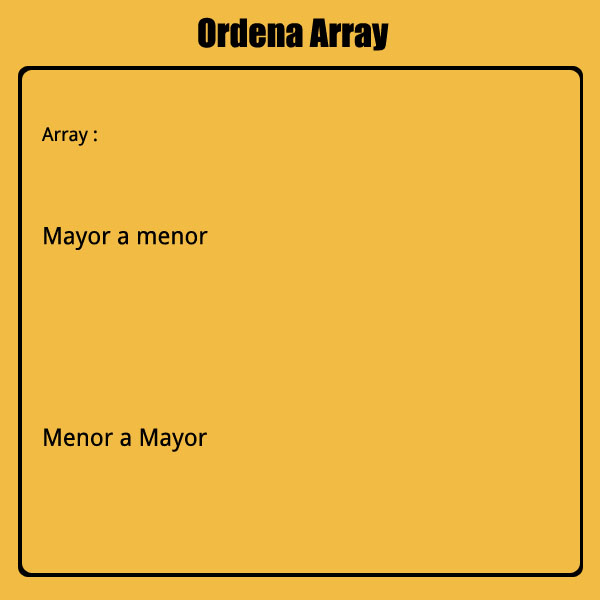
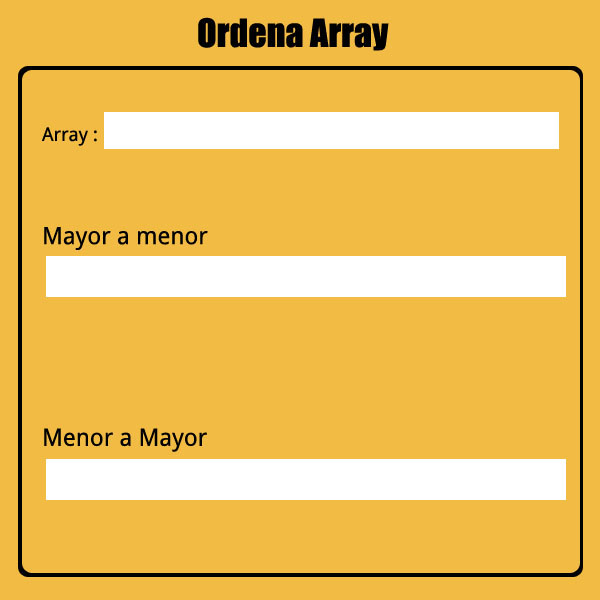
imcompleto

Changed region(s): [[0.06, 0.75, 0.96, 0.84], [0.06, 0.42, 0.96, 0.51], [0.15, 0.18, 0.93, 0.27]]

diff --git a/src/recursion/PopUp.java b/src/recursion/PopUp.java
@@ -4,19 +4,34 @@ import java.awt.Graphics;
 import java.awt.Image;
 import java.awt.MediaTracker;
 import java.awt.Toolkit;
+
+import javax.swing.JOptionPane;
 import javax.swing.JPanel;
 import javax.swing.JButton;
-
-class PopUp extends JPanel{
-JButton boton1 = new JButton("Aceptar");
-	Image bgimage = null;
+import javax.swing.JFrame;
+public class PopUp extends JFrame {
+	
 	PopUp(){
+		setSize(404,171);
+		setUndecorated(true);
+		add(new Entrada());
+		setLocationRelativeTo(null);
+
+		setVisible(true);
+		
+		
+	}
+}
+
+class Entrada extends JPanel{
+	
+JButton boton1 = new JButton("Aceptar");
+	Image popup = null;
+	Entrada(){
 	setLayout(null);
-	bgimage = Toolkit.getDefaultToolkit().getImage("/home/kala/git/Varios/Images/frame.jpg");
-	boton1.setBounds(30, 160, 160, 30);
-add(boton1);
+	popup = Toolkit.getDefaultToolkit().getImage("/home/kala/git/Varios/Images/popup.jpg");
 	MediaTracker mt = new MediaTracker(this);
-	mt.addImage(bgimage, 0);
+	mt.addImage(popup, 0);
 	
 	try{
 		mt.waitForAll();
@@ -30,7 +45,7 @@ add(boton1);
 	protected void paintComponent(Graphics g){
 
 		super.paintComponent(g);
-		g.drawImage(bgimage,1,1,null);		
+		g.drawImage(popup,1,1,null);		
 		
 	}
 	

diff --git a/src/recursion/ContentPanel.java b/src/recursion/ContentPanel.java
@@ -6,22 +6,25 @@ import java.awt.MediaTracker;
 import java.awt.Toolkit;
 import java.awt.event.ActionEvent;
 import java.awt.event.ActionListener;
-
 import javax.swing.ImageIcon;
 import javax.swing.JPanel;
 import javax.swing.JButton;
 
 class ContentPanel extends JPanel implements ActionListener {
-	JButton boton1 = new JButton("Ingresar numeros");
+	JButton boton1 = new JButton();
+	JButton boton2 = new JButton();
 	Image bgimage = null;
 	ImageIcon buimage1 = new ImageIcon(
 			"/home/kala/git/Varios/Images/boton1.png");
-
+	ImageIcon buimage2 = new ImageIcon(
+			"/home/kala/git/Varios/Images/boton2.png");
+//constructor
 	ContentPanel() {
 		setLayout(null);
 		bgimage = Toolkit.getDefaultToolkit().getImage(
 				"/home/kala/git/Varios/Images/frame.jpg");
 		botones(boton1, buimage1, 450, 535, 120, 30);
+		botones(boton2, buimage2, 40, 170, 120, 30);
 
 		MediaTracker mt = new MediaTracker(this);
 		mt.addImage(bgimage, 0);
@@ -40,7 +43,12 @@ class ContentPanel extends JPanel implements ActionListener {
 	public void actionPerformed(ActionEvent e) {
 
 		if (e.getSource() == boton1) {
+			
 			System.exit(0);
+		}
+		
+		if(e.getSource() == boton2){
+			new PopUp();
 		}
 
 	}

diff --git a/src/recursion/Proceso.java b/src/recursion/Proceso.java
@@ -1,0 +1,36 @@
+package recursion;
+//La siguiente clase realiza los procesos del programa , formando el backend de la aplicación
+import javax.swing.JOptionPane;
+
+public class Proceso {
+
+	private int[] num = new int[15];
+	
+	
+	
+	Proceso(){
+		
+	}
+	
+	
+	private void input(){
+	
+		for(byte i = 0;i < num.length;i++){
+			
+			num[i] =
+			
+			
+		}
+		
+		
+		
+	}
+	
+	private void creciente(){
+		
+	}
+	
+	private void decreciente(){
+		
+	}
+}
